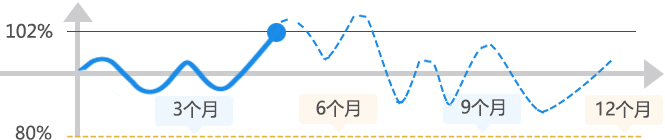
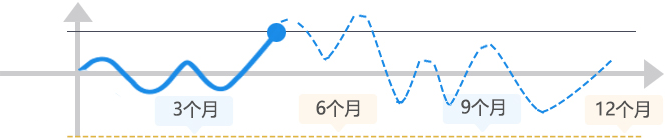
help input

Changed region(s): [[0.0, 0.1714, 0.0902, 0.2857], [0.0, 0.8857, 0.0902, 1.0]]

diff --git a/styles/index.css b/styles/index.css
@@ -13,7 +13,6 @@ body {
   width: 100%;
   height: 100%;
   font-family: "Arial", "Microsoft YaHei", "黑体", "宋体", sans-serif;
-  background-color: #fff;
 }
 
 li {
@@ -184,7 +183,7 @@ ul.ui-menu.ui-widget.ui-widget-content.ui-autocomplete.ui-front li.ui-menu-item:
 
 .kl-chart {
   width: 100%;
-  height: 32.55rem;
+  height: 32.35rem;
 }
 
 .kl-slider {
@@ -325,8 +324,8 @@ ul.ui-menu.ui-widget.ui-widget-content.ui-autocomplete.ui-front li.ui-menu-item:
 .kl-compute {
   position: absolute;
   display: flex;
-  top: -2.4rem;
-  left: 4rem;
+  top: -2.3rem;
+  left: 4.5rem;
 }
 
 .kl-compute__button {
@@ -451,8 +450,43 @@ ul.ui-menu.ui-widget.ui-widget-content.ui-autocomplete.ui-front li.ui-menu-item:
 }
 
 .kl-help dl dd {
+  position: relative;
   flex-basis: 55%;
 }
+
+.kl-help dl dd .kl-help-no1,
+.kl-help dl dd .kl-help-no2 {
+  position: absolute;
+  left: 0;
+  font-size: 14px;
+}
+
+.kl-help dl:nth-child(1) .kl-help-no1,
+.kl-help dl:nth-child(3) .kl-help-no1,
+.kl-help dl:nth-child(4) .kl-help-no1 {
+  top: 1rem;
+}
+
+.kl-help dl:nth-child(2) .kl-help-no1 {
+  top: 2rem;
+}
+
+.kl-help dl:nth-child(1) .kl-help-no2 {
+  bottom: .1rem;
+}
+
+.kl-help dl:nth-child(2) .kl-help-no2 {
+  bottom: 2.5rem;
+}
+
+.kl-help dl:nth-child(3) .kl-help-no2 {
+  bottom: .4rem;
+}
+
+.kl-help dl:nth-child(4) .kl-help-no2 {
+  bottom: 1.8rem;
+}
+
 
 .kl-help dl p {
   margin-bottom: 1rem;
@@ -608,8 +642,68 @@ ul.ui-menu.ui-widget.ui-widget-content.ui-autocomplete.ui-front li.ui-menu-item:
     color: #fff;
     text-align: center;
   }
+
+  .kl-help dl:nth-child(1) .kl-help-no1,
+  .kl-help dl:nth-child(3) .kl-help-no1,
+  .kl-help dl:nth-child(4) .kl-help-no1 {
+    top: 1.5rem;
+    left: 0;
+  }
+
+  .kl-help dl:nth-child(2) .kl-help-no1 {
+    top: 2.5rem;
+    left: 0;
+  }
+
+  .kl-help dl:nth-child(1) .kl-help-no2,
+  .kl-help dl:nth-child(3) .kl-help-no2 {
+    bottom: .2rem;
+    left: 0;
+  }
+
+  .kl-help dl:nth-child(2) .kl-help-no2 {
+    bottom: 2.8rem;
+    left: 0;
+  }
+
+  .kl-help dl:nth-child(4) .kl-help-no2 {
+    bottom: 2rem;
+    left: -0;
+  }
+
 }
 
+
+@media screen and (max-width: 414px) {
+
+  .kl-help dl:nth-child(1) .kl-help-no1,
+  .kl-help dl:nth-child(3) .kl-help-no1,
+  .kl-help dl:nth-child(4) .kl-help-no1 {
+    top: .3rem;
+    left: -.4rem;
+  }
+
+  .kl-help dl:nth-child(2) .kl-help-no1 {
+    top: .8rem;
+    left: -.4rem;
+  }
+
+  .kl-help dl:nth-child(1) .kl-help-no2,
+  .kl-help dl:nth-child(3) .kl-help-no2 {
+    bottom: .1rem;
+    left: -.2rem;
+  }
+
+  .kl-help dl:nth-child(2) .kl-help-no2 {
+    bottom: 1.4rem;
+    left: -.2rem;
+  }
+
+  .kl-help dl:nth-child(4) .kl-help-no2 {
+    bottom: 1rem;
+    left: -.2rem;
+  }
+}
 
 .kl-toast__wrapper {
   position: fixed;

diff --git a/scripts/index.js b/scripts/index.js
@@ -19,6 +19,8 @@ var helpIncome1 = $('#help-income-1');
 var helpIncome2 = $('#help-income-2');
 var helpIncome3 = $('#help-income-3');
 var helpIncome4 = $('#help-income-4');
+var helpOutput = $('.kl-help-no1');
+var helpInput = $('.kl-help-no2');
 var KLineChart = echarts.init(document.getElementById('k-line-chart'));
 
 var dateRangeSelect = '';
@@ -133,6 +135,7 @@ function initSlider (option) {
   var outputMax = parseInt(knockoutList[knockoutList.length - 1]);
   var outputStep = (outputMax - outputMin) / (knockoutList.length - 1);
   sliderOutput = parseInt(knockoutList[1]);
+  helpOutput.html(sliderOutput + '%');
   $('#slider-output').slider({
     orientation: 'vertical',
     range: 'min',
@@ -142,10 +145,12 @@ function initSlider (option) {
     value: sliderOutput,
     slide: function (event, ui) {
       sliderOutput = ui.value;
+      helpOutput.html(sliderOutput + '%');
       updateMarkLine();
     },
     change: function (event, ui) {
       sliderOutput = ui.value;
+      helpOutput.html(sliderOutput + '%');
       updateMarkLine();
     }
   }).slider('pips', {
@@ -157,6 +162,7 @@ function initSlider (option) {
   var inputMax = parseInt(knockinList[knockinList.length - 1]);
   var inputStep = (inputMax - inputMin) / (knockinList.length - 1);
   sliderInput = parseInt(knockinList[knockinList.length - 1]);
+  helpInput.html(sliderInput + '%');
   $('#slider-input').slider({
     orientation: 'vertical',
     range: 'max',
@@ -166,10 +172,12 @@ function initSlider (option) {
     value: sliderInput,
     slide: function (event, ui) {
       sliderInput = ui.value;
+      helpInput.html(sliderInput + '%');
       updateMarkLine();
     },
     change: function (event, ui) {
       sliderInput = ui.value;
+      helpInput.html(sliderInput + '%');
       updateMarkLine();
     }
   }).slider('pips', {

diff --git a/index.html b/index.html
@@ -67,6 +67,8 @@
                   <span id="help-income-2" class="kl-help__description" ></span>
                 </dt>
                 <dd>
+                  <div class="kl-help-no1">102%</div>
+                  <div class="kl-help-no2">80%</div>
                   <img class="kl-help-image" src="images/help01.png" />
                 </dd>
               </dl>
@@ -76,6 +78,8 @@
                   <strong>投资人总收益 = <span id="help-income-3"></span>（年化）</strong>
                 </dt>
                 <dd>
+                  <div class="kl-help-no1">102%</div>
+                  <div class="kl-help-no2">80%</div>
                   <img class="kl-help-image" src="images/help02.png" />
                 </dd>
               </dl>
@@ -85,6 +89,8 @@
                   <strong>投资人总收益 = <span id="help-income-4"></span>（年化）</strong>
                 </dt>
                 <dd>
+                  <div class="kl-help-no1">102%</div>
+                  <div class="kl-help-no2">80%</div>
                   <img class="kl-help-image" src="images/help03.png" />
                 </dd>
               </dl>
@@ -94,6 +100,8 @@
                   <strong>投资人总亏损 = <span>实际跌幅</span>（非年化）</strong>
                 </dt>
                 <dd>
+                  <div class="kl-help-no1">102%</div>
+                  <div class="kl-help-no2">80%</div>
                   <img class="kl-help-image" src="images/help04.png" />
                 </dd>
               </dl>
